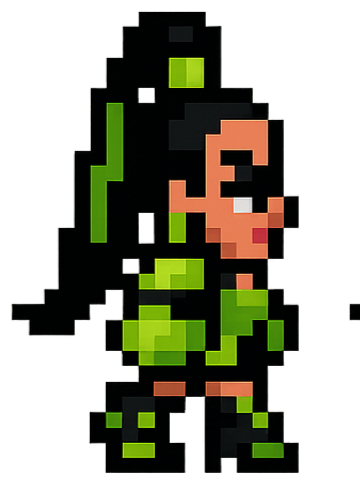
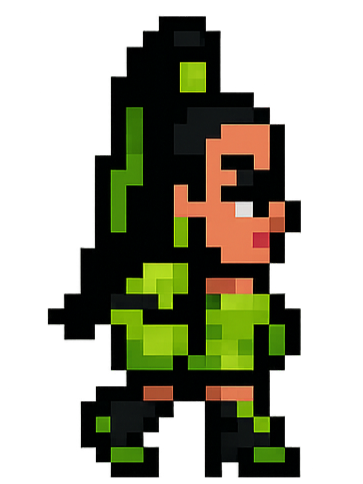
Añadir caminos, edificios y personaje que rota

Changed region(s): [[0.0306, 0.0, 0.8556, 1.0], [0.9472, 0.625, 1.0, 0.6875]]

diff --git a/src/floor.js b/src/floor.js
@@ -1,80 +1,118 @@
+// floor.js — Escena del mapa con colisiones y pintado por Y.
+// El personaje se mueve solo mientras mantienes la tecla (sin inercia) y tiene salto visual.
+
+import Person from "./person.js";                                      // Personaje con control inmediato
+
 class floor extends Phaser.Scene {
-    constructor() {
-        super({ key: "floor" });
-    }
-    preload() {
-        this.load.image("earth", "./Objects/Floor/earth.png");
-        this.load.image("boil", "./Objects/Floor/boil.png");
-        this.load.image("earth2", "./Objects/Floor/earthstone.png");
-        this.load.image("land", "./Objects/Floor/land.png");
-        this.load.image("stone", "./Objects/Floor/stone.png");
-    }
-    create() {
-        // this.add.image(18, 18, "earth").setScale(0.25);
-        // this.add.image(55, 18, "earth").setScale(0.25);
-        // this.add.image(92, 18, "earth").setScale(0.25);
-        // this.add.image(129, 18, "earth").setScale(0.25);
-        // this.add.image(166, 18, "earth").setScale(0.25);
-        // this.add.image(203, 18, "earth").setScale(0.25);
-        // this.add.image(240, 18, "earth").setScale(0.25);
-        // this.add.image(277, 18, "earth").setScale(0.25);
-        // this.add.image(314, 18, "earth").setScale(0.25);
-        // Crea un "tileSprite": una textura repetida en un área definida
-        this.floor = this.add.tileSprite(
-            0, // posición X
-            0, // posición Y
-            4500, // ancho (lo que quieras cubrir)
-            5500, // alto (altura de la franja del suelo)
-            "boil" // clave de la imagen
-        );
-        this.floor.setOrigin(0, 0); // Para que empiece arriba-izquierda
-        this.floor.setScale(0.25); // Escala si la imagen es grande
+  constructor() { super({ key: "floor" }); }                            // Clave de la escena
 
-        this.floor = this.add.tileSprite(
-            350, // posición X
-            350, // posición Y
-            1500, // ancho (lo que quieras cubrir)
-            1500, // alto (altura de la franja del suelo)
-            "land" // clave de la imagen
-        );
-        this.floor.setOrigin(0, 0); // Para que empiece arriba-izquierda
-        this.floor.setScale(0.25); // Escala si la imagen es grande
+  preload() {
+    // ===== Suelos y caminos (solo visual) =====
+    this.load.image("earth",  "./Objects/Floor/earth.png");
+    this.load.image("boil",   "./Objects/Floor/boil.png");
+    this.load.image("earth2", "./Objects/Floor/earthstone.png");
+    this.load.image("land",   "./Objects/Floor/land.png");
+    this.load.image("stone",  "./Objects/Floor/stone.png");
 
-        this.floor = this.add.tileSprite(
-            250, // posición X
-            250, // posición Y
-            500, // ancho (lo que quieras cubrir)
-            500, // alto (altura de la franja del suelo)
-            "stone" // clave de la imagen
-        );
+    // ===== Objetos del mapa =====
+    this.load.image("banco",   "./Objects/Objects/Banco.png");
+    this.load.image("farola",  "./Objects/Objects/Farola.png");
+    this.load.image("arbusto", "./Objects/Objects/Arbusto.png");
+    this.load.image("arbol",   "./Objects/Objects/Arbol.png");
+    this.load.image("estatua", "./Objects/Objects/Estatua.png");
+    this.load.image("teatro",  "./Objects/Objects/Teatro.png");
+    this.load.image("galeria", "./Objects/Objects/Galeria.png");
 
-        this.floor.setOrigin(0, 0); // Para que empiece arriba-izquierda
-        this.floor.setScale(0.25); // Escala si la imagen es grande
-        
-        this.floor = this.add.tileSprite(
-            750, // posición X
-            250, // posición Y
-            500, // ancho (lo que quieras cubrir)
-            500, // alto (altura de la franja del suelo)
-            "earth" // clave de la imagen
-        );
+    // ===== Personaje (PNG por dirección) =====
+    this.load.image("escandalo_down",  "./Objects/DragQueen/escandalo.png");
+    this.load.image("escandalo_up",    "./Objects/DragQueen/escandaloUP.png");
+    this.load.image("escandalo_left",  "./Objects/DragQueen/escandaloLEFT.png");
+    this.load.image("escandalo_right", "./Objects/DragQueen/escandaloRIGHT.png");
+  }
 
-        this.floor.setOrigin(0, 0); // Para que empiece arriba-izquierda
-        this.floor.setScale(0.25); // Escala si la imagen es grande
-        
-        this.floor = this.add.tileSprite(
-            250, // posición X
-            750, // posición Y
-            250, // ancho (lo que quieras cubrir)
-            500, // alto (altura de la franja del suelo)
-            "earth2" // clave de la imagen
-        );
+  create() {
+    // ================== 1) Suelos (pintura) ==================
+    this.boil = this.add.tileSprite(0, 0, 4500, 5500, "boil")        // Suelo base
+      .setOrigin(0, 0).setScale(0.25);
 
-        this.floor.setOrigin(0, 0); // Para que empiece arriba-izquierda
-        this.floor.setScale(0.25); // Escala si la imagen es grande
-    }
+    this.land = this.add.tileSprite(350, 350, 1500, 1500, "land")    // Césped
+      .setOrigin(0, 0).setScale(0.25);
 
+    // Caminos de tierra (decoración)
+    this.add.tileSprite(60,  500, 1160, 300, "earth").setOrigin(0,0).setScale(0.25);
+    this.add.tileSprite(60,  200, 300,  1300,"earth").setOrigin(0,0).setScale(0.25);
+    this.add.tileSprite(725, 500, 800,  300, "earth").setOrigin(0,0).setScale(0.25);
+    this.add.tileSprite(875, 400, 700,  300, "earth").setOrigin(0,0).setScale(0.25);
+    this.add.tileSprite(975, 370, 300,  130, "earth").setOrigin(0,0).setScale(0.25);
+
+    // ============== 2) Obstáculos estáticos (colisionan) ==============
+    this.obstacles = this.physics.add.staticGroup();                 // Grupo para todo lo sólido
+
+    // Helper para crear obstáculo con hitbox ajustado y depth por Y
+    const addObstacle = (x, y, key, displayW, displayH, opts = {}) => {
+      const obj = this.obstacles.create(x, y, key);                  // StaticImage con cuerpo Arcade
+      obj.setOrigin(opts.originX ?? 0, opts.originY ?? 0);           // Origen visual
+      obj.setDisplaySize(displayW, displayH);                        // Tamaño visual
+
+      obj.body.setSize(opts.bodyW ?? displayW, opts.bodyH ?? displayH); // Tamaño del hitbox
+      obj.body.setOffset(opts.offsetX ?? 0, opts.offsetY ?? 0);      // Offset del hitbox
+      obj.refreshBody();                                             // Recalcular cuerpo estático
+
+      obj.setDepth((obj.y + obj.displayHeight) | 0);                 // Pintado por Y (efecto RPG)
+      return obj;
+    };
+
+    // Bancos (hitbox del asiento)
+    addObstacle(250, 400, "banco",  90, 70, { bodyH: 50, offsetY: 20 });
+    addObstacle(725, 400, "banco",  90, 70, { bodyH: 50, offsetY: 20 });
+
+    // Farolas (hitbox estrecho del poste)
+    addObstacle(700, 290, "farola", 120, 120, { bodyW: 30, bodyH: 90, offsetX: 45, offsetY: 20 });
+    addObstacle(250, 290, "farola", 120, 120, { bodyW: 30, bodyH: 90, offsetX: 45, offsetY: 20 });
+    addObstacle(380, 650, "farola", 120, 120, { bodyW: 30, bodyH: 90, offsetX: 45, offsetY: 20 });
+    addObstacle(600, 650, "farola", 120, 120, { bodyW: 30, bodyH: 90, offsetX: 45, offsetY: 20 });
+
+    // Árboles (solo tronco)
+    addObstacle(130, 300, "arbol", 80, 100, { bodyW: 30, bodyH: 45, offsetX: 25, offsetY: 55 });
+    addObstacle(800, 300, "arbol", 80, 100, { bodyW: 30, bodyH: 45, offsetX: 25, offsetY: 55 });
+    addObstacle(250, 580, "arbol", 80, 100, { bodyW: 30, bodyH: 45, offsetX: 25, offsetY: 55 });
+    addObstacle(750, 580, "arbol", 80, 100, { bodyW: 30, bodyH: 45, offsetX: 25, offsetY: 55 });
+
+    // Estatua/fuente (oval bajo)
+    addObstacle(450, 350, "estatua", 200, 220, { bodyW: 160, bodyH: 90, offsetX: 20, offsetY: 120 });
+
+    // Edificios (pared casi completa)
+    addObstacle(0,   0,   "teatro",  200, 220, { bodyH: 200, offsetY: 20 });
+    addObstacle(910, 180, "galeria", 200, 220, { bodyH: 200, offsetY: 20 });
+
+    // ============== 3) Decoración (no colisiona) ==============
+    const deco1 = this.add.image(800, 395, "arbusto").setOrigin(0, 0).setDisplaySize(80, 80);
+    deco1.setDepth((deco1.y + deco1.displayHeight) | 0);
+    const deco2 = this.add.image(180, 395, "arbusto").setOrigin(0, 0).setDisplaySize(80, 80);
+    deco2.setDepth((deco2.y + deco2.displayHeight) | 0);
+
+    // ============== 4) Jugador (al final y con hitbox de pies) ==============
+    this.player = new Person(this, 100, 300);                         // Crea el personaje
+    this.player.setDepth((this.player.y + this.player.displayHeight) | 0); // Depth por Y
+
+    // Hitbox reducido a la zona de los pies (colisión justa)
+    this.player.body.setSize(this.player.displayWidth * 0.40, this.player.displayHeight * 0.30);
+    this.player.body.setOffset(
+      (this.player.displayWidth - this.player.body.width) / 2,        // Centrado en X
+      this.player.displayHeight - this.player.body.height             // Pegado abajo (pies)
+    );
+
+    // Colisiones físicas jugador ↔ obstáculos
+    this.physics.add.collider(this.player, this.obstacles);
+
+    // Límites físicos del mundo = tamaño del canvas (ajusta si usas cámara)
+    this.physics.world.setBounds(0, 0, this.scale.width, this.scale.height);
+  }
+
+  update(time, delta) {
+    this.player.update();                                             // Movimiento y salto visual
+    this.player.setDepth((this.player.y + this.player.displayHeight) | 0); // Depth por Y cada frame
+  }
 }
-
 
 export default floor;

diff --git a/src/person.js b/src/person.js
@@ -1,0 +1,117 @@
+export default class Person extends Phaser.Physics.Arcade.Sprite {  // Clase Person con físicas Arcade
+    constructor(scene, x, y) {                                        // Recibe la escena y una posición inicial
+        super(scene, x, y, "escandalo_down");                           // Textura inicial mirando hacia abajo
+
+        scene.add.existing(this);                                       // Añadimos el sprite a la escena (se renderiza)
+        scene.physics.add.existing(this);                               // Registramos el sprite en Arcade Physics
+
+        // ===== Visual =====
+        this.setScale(0.15);                                             // Escala del PNG
+        this.setCollideWorldBounds(true);                               // No salir de los límites del mundo
+        this.setBounce(0);                                              // Sin rebote en colisiones
+        this.body.setAllowDrag(false);                                  // Sin drag/inercia
+        this.body.setFriction(0, 0);                                    // Sin fricción artificial
+
+        // ===== Parámetros de movimiento =====
+        this.SPEED = 200;                                               // Velocidad fija (px/s) mientras mantienes la tecla
+
+        // ===== Teclas =====
+        this.cursors = scene.input.keyboard.createCursorKeys();         // Flechas ↑ ↓ ← →
+        this.space   = scene.input.keyboard.addKey(Phaser.Input.Keyboard.KeyCodes.SPACE); // Barra espaciadora (salto)
+
+        // ===== Recuerda última dirección para textura en reposo =====
+        this.lastDir = "down";                                          // "up" | "down" | "left" | "right"
+
+        // ===== Sombra para salto visual (no afecta a colisiones) =====
+        this.shadow = scene.add.ellipse(
+        this.x,                                                       // x inicial (debajo del jugador)
+        this.y + this.displayHeight * 0.45,                           // y inicial (bajo los “pies”)
+        this.displayWidth * 0.55,                                     // ancho de la sombra
+        this.displayHeight * 0.20,                                    // alto de la sombra
+        0x000000,                                                     // color negro
+        0.35                                                          // alfa (transparencia)
+        );
+        this.shadow.setDepth((this.y + this.displayHeight) | 0);        // Orden de pintado por Y
+        this.isJumping = false;                                         // Flag para no encadenar saltos infinitos
+
+        // ===== Feedback: cambia PNG en cuanto pulsas una dirección =====
+        scene.input.keyboard.on("keydown", (ev) => {                    // Listener genérico al pulsar cualquier tecla
+        if (ev.code === "ArrowUp")    this.setFacing("up");           // Cambia a PNG de arriba
+        if (ev.code === "ArrowDown")  this.setFacing("down");         // Cambia a PNG de abajo
+        if (ev.code === "ArrowLeft")  this.setFacing("left");         // Cambia a PNG de izquierda
+        if (ev.code === "ArrowRight") this.setFacing("right");        // Cambia a PNG de derecha
+        });
+    }
+
+    // Cambia textura según la dirección y la guarda como última dirección
+    setFacing(dir) {
+        if (dir === "up")    this.setTexture("escandalo_up");
+        if (dir === "down")  this.setTexture("escandalo_down");
+        if (dir === "left")  this.setTexture("escandalo_left");
+        if (dir === "right") this.setTexture("escandalo_right");
+        this.lastDir = dir;
+    }
+
+    // Salto visual (no altera colisiones ni velocidades): sube/baja levemente y aplasta la sombra
+    doJump() {
+        if (this.isJumping) return;                                      // Evita doble salto visual
+        this.isJumping = true;                                           // Marca que está saltando
+
+        const upOffset = 10;                                             // Altura visual del salto (px)
+        const dur = 120;                                                 // Duración de subida/bajada (ms)
+
+        // Tween del propio sprite: sube y baja rápido
+        this.scene.tweens.timeline({
+        targets: this,
+        tweens: [
+            { y: this.y - upOffset, duration: dur, ease: "sine.out" },   // Sube
+            { y: this.y,            duration: dur, ease: "sine.in"  },   // Baja
+        ],
+        onStart: () => {
+            // La sombra se hace más pequeña y densa mientras “sube”
+            this.scene.tweens.add({
+            targets: this.shadow,
+            scaleX: 0.75, scaleY: 0.60, alpha: 0.45,
+            duration: dur, ease: "sine.out"
+            });
+        },
+        onComplete: () => {
+            // La sombra vuelve a su tamaño original
+            this.scene.tweens.add({
+            targets: this.shadow,
+            scaleX: 1, scaleY: 1, alpha: 0.35,
+            duration: dur, ease: "sine.in",
+            onComplete: () => { this.isJumping = false; }              // Permite un nuevo salto
+            });
+        }
+        });
+    }
+
+    update() {
+        // === 1) Calcula dirección de movimiento en base a teclas pulsadas ===
+        let dx = 0, dy = 0;                                              // Dirección por eje (-1, 0, 1)
+        if (this.cursors.left.isDown)  dx -= 1;                          // ←
+        if (this.cursors.right.isDown) dx += 1;                          // →
+        if (this.cursors.up.isDown)    dy -= 1;                          // ↑
+        if (this.cursors.down.isDown)  dy += 1;                          // ↓
+
+        // === 2) Normaliza para que en diagonal no vaya más rápido ===
+        const len = Math.hypot(dx, dy);                                  // Longitud del vector
+        if (len > 0) { dx /= len; dy /= len; }                           // Normalización (0->sin cambios)
+
+        // === 3) Aplica velocidad inmediata (no hay aceleración ni drag) ===
+        // Si hay teclas pulsadas, mueve. Si no, para en seco.
+        this.setVelocity(dx * this.SPEED, dy * this.SPEED);
+
+        // === 4) Si está parado, usa la última textura que tenía (ya se cambió en keydown) ===
+        // (No hace falta cambiar nada aquí; la textura se actualiza en setFacing cuando pulsas)
+
+        // === 5) Salto visual al pulsar SPACE (pulsación única) ===
+        if (Phaser.Input.Keyboard.JustDown(this.space)) this.doJump();
+
+        // === 6) Mantén la sombra bajo los pies y ordena por Y (efecto RPG) ===
+        this.shadow.x = this.x;
+        this.shadow.y = this.y + this.displayHeight * 0.45;
+        this.shadow.setDepth((this.y + this.displayHeight) | 0);
+    }
+}

diff --git a/src/init.js b/src/init.js
@@ -1,17 +1,16 @@
 import floor from "./floor.js";
-import Scene_play from "./scenes/scene_play.js";
 
 const config = {
-    width: 320 * 3.5,
-    height: 180 * 7,
-    parent: "container",
     type: Phaser.AUTO,
-    scene: [
-        floor,
-        Scene_play
-    ]
-    
-}
+        width: 320 * 3.5,
+        height: 180 * 7,
 
+    parent: "container",
+    physics: { 
+        default: "arcade", 
+        arcade: { 
+            gravity: { y: 0 }, 
+            debug: false } },
+    scene: [floor]
+    };
 new Phaser.Game(config);
-
